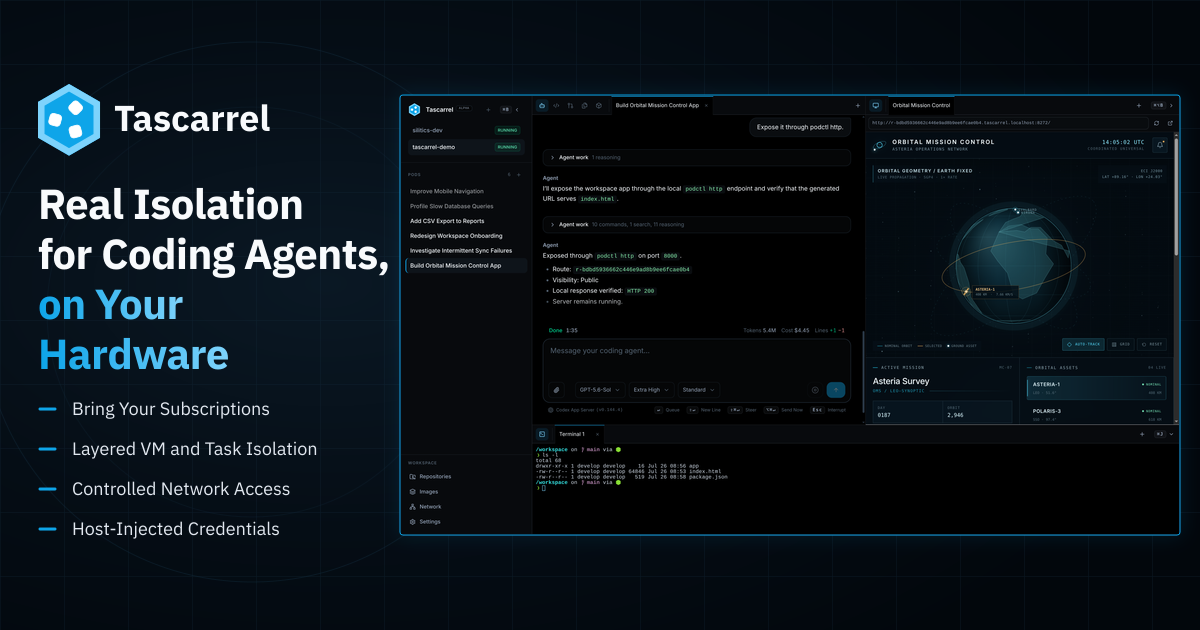
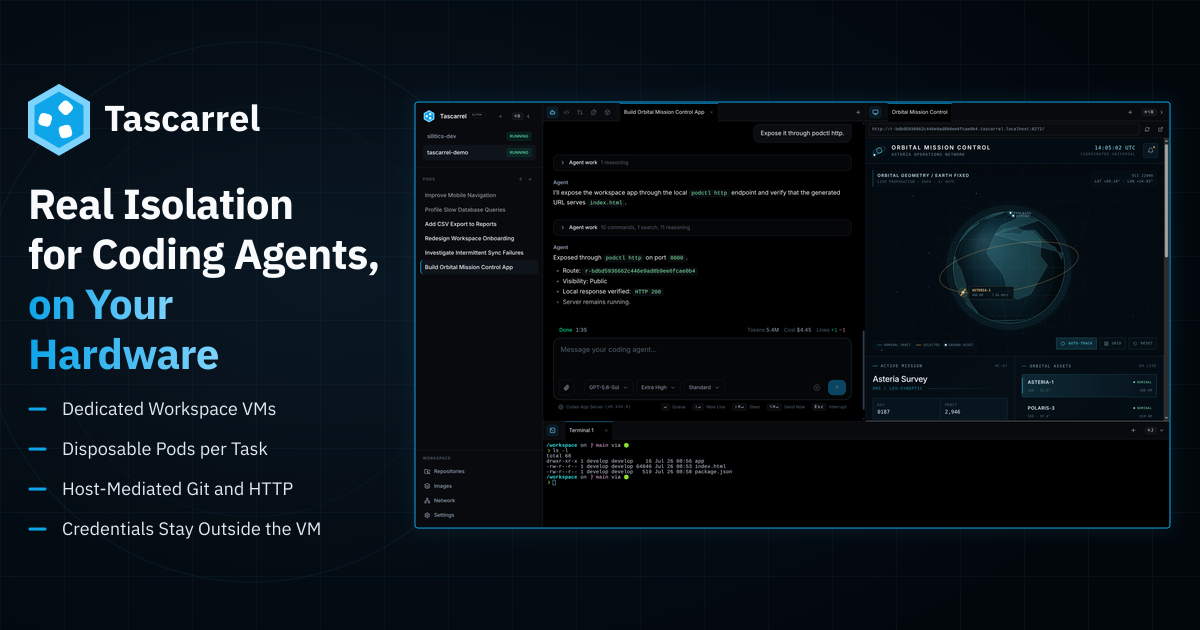
align social card with landing page messaging

diff --git a/src/site.ts b/src/site.ts
@@ -21,7 +21,7 @@ export const brand: Brand = {
     src: "/img/tascarrel-social-card.png",
     width: 1200,
     height: 630,
-    alt: "Tascarrel workbench with the headline “Real Isolation for Coding Agents, on Your Hardware”",
+    alt: "Tascarrel workbench with the headline “Real Isolation for Coding Agents, on Your Hardware” and proof points about workspace VMs, disposable task pods, host-mediated Git and HTTP, and credentials staying outside the VM",
   },
   locale: "en",
   themeColor: { dark: "#0b0d12", light: "#fafafa" },
